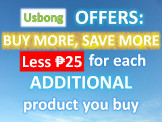
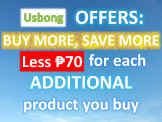
+updated: less *25pesos* promo for each additional product customer buys to less *70pesos* --> updated: on the right-hand panel, Usbong ad --> updated: automated calculations (in client browser (javascript) and server-side + DB)

Changed region(s): [[0.4012, 0.4426, 0.5556, 0.5656]]

diff --git a/usbong_store/application/views/templates/style.php b/usbong_store/application/views/templates/style.php
@@ -620,7 +620,7 @@ defined('BASEPATH') OR exit('No direct script access allowed');
 		    	//-----------------------------------------------
 		    	//previous price name
 		    	//-----------------------------------------------		    								
-				var previousPriceName = document.getElementById("previousPriceId~"+colNum+"~"+productTypeId);			    			    	
+				var previousPriceName = document.getElementById("previousPriceId~"+colNum+"~"+productTypeId);
 
 				if (!hasReachedDataLength) {				    				    	
 			    	if (data[index].previous_price!=null) {
@@ -918,22 +918,22 @@ defined('BASEPATH') OR exit('No direct script access allowed');
 
 
 			//-----------------------------------------------------------------------
-			//update Less 25pesos promo
+			//update Less 70pesos promo
 			//-----------------------------------------------------------------------			
-			var less25pesosPromoField = document.getElementById("less25pesosPromoId");
+			var less70pesosPromoField = document.getElementById("less70pesosPromoId");
 			if(totalQuantity>1) {
-				var discount = (totalQuantity-1)*25;
-				less25pesosPromoField.innerHTML = discount;
+				var discount = (totalQuantity-1)*70;
+				less70pesosPromoField.innerHTML = discount;
 			}
 			else {
-				less25pesosPromoField.innerHTML = 0;
+				less70pesosPromoField.innerHTML = 0;
 			}
 			
 			//-----------------------------------------------------------------------
-			//update Order Total (less 25pesos)
+			//update Order Total (less 70pesos)
 			//-----------------------------------------------------------------------			
 			var orderTotalField = document.getElementById("orderTotalId2");
-			orderTotalField.innerHTML = orderTotalField.innerHTML-less25pesosPromoField.innerHTML;
+			orderTotalField.innerHTML = orderTotalField.innerHTML-less70pesosPromoField.innerHTML;
 						
 //			totalQuantityField.innerHTML = totalQuantity;
 

diff --git a/usbong_store/application/views/shoppingcart.php b/usbong_store/application/views/shoppingcart.php
@@ -176,18 +176,18 @@ defined('BASEPATH') OR exit('No direct script access allowed');
 							</div>
 							<div class="row Cart-order-discount-row">
 								<div class="col-sm-7">		
-									Less &#x20B1;25 promo
+									Less &#x20B1;70 promo
 								</div>
 								<div class="col-sm-5 Cart-order-discount">		
 									<?php 
 										if ($totalQuantity>1) {
-											$totalDiscount = ($totalQuantity-1)*25;
+											$totalDiscount = ($totalQuantity-1)*70;
 										}
 										else {
 											$totalDiscount=0;
 										}
 										
-										echo '-&#x20B1;<span id="less25pesosPromoId">'.$totalDiscount.'</span>';
+										echo '-&#x20B1;<span id="less70pesosPromoId">'.$totalDiscount.'</span>';
 									?>	
 								</div>		
 							</div>			

diff --git a/usbong_store/application/views/account/orderdetailsadmin.php b/usbong_store/application/views/account/orderdetailsadmin.php
@@ -84,7 +84,7 @@ defined('BASEPATH') OR exit('No direct script access allowed');
 
 									echo '<div class="row">';
 									echo	'<div class="col-sm-6 Order-details">';
-									echo	'<div class="Order-details-align-right">Less &#x20B1;25 promo</div>';
+									echo	'<div class="Order-details-align-right">Less &#x20B1;70 promo</div>';
 									echo 	'</div>';
 									echo	'<div class="col-sm-5 Order-details">';
 									echo	'<div class="Order-details-align-right Order-details-amount">-&#x20B1;'.$value['order_total_discount'].'</div>';

diff --git a/usbong_store/application/views/checkout.php b/usbong_store/application/views/checkout.php
@@ -390,12 +390,12 @@ defined('BASEPATH') OR exit('No direct script access allowed');
 						</div>
 						<div class="row Cart-order-discount-row">
 								<div class="col-sm-6">		
-									Less &#x20B1;25 promo
+									Less &#x20B1;70 promo
 								</div>
 								<div class="col-sm-6 Cart-order-discount">		
 									<?php 
 										if ($totalQuantity>1) {
-											$totalDiscount = ($totalQuantity-1)*25;
+											$totalDiscount = ($totalQuantity-1)*70;
 										}
 										else {
 											$totalDiscount=0;

diff --git a/usbong_store/application/views/thankyou.php b/usbong_store/application/views/thankyou.php
@@ -69,12 +69,12 @@ defined('BASEPATH') OR exit('No direct script access allowed');
 					</div>
 					<div class="row Cart-order-discount-row">
 							<div class="col-sm-6">		
-								Less &#x20B1;25 promo
+								Less &#x20B1;70 promo
 							</div>
 							<div class="col-sm-6 Cart-order-discount">		
 								<?php 
 									if ($quantity>1) {
-										$totalDiscount = ($quantity-1)*25;
+										$totalDiscount = ($quantity-1)*70;
 									}
 									else {
 										$totalDiscount=0;

diff --git a/usbong_store/application/controllers/cart.php b/usbong_store/application/controllers/cart.php
@@ -194,10 +194,10 @@ class Cart extends MY_Controller {
 			$totalQuantity+=$value['quantity'];
 		}
 		
-		//added by Mike, 20170806
+		//edited by Mike, 20170915
 		$orderTotalDiscount=0;
 		if ($totalQuantity>1) {
-			$orderTotalDiscount = ($totalQuantity-1)*25;
+			$orderTotalDiscount = ($totalQuantity-1)*70;
 		}		
 		
 		//added by Mike, 20170912
